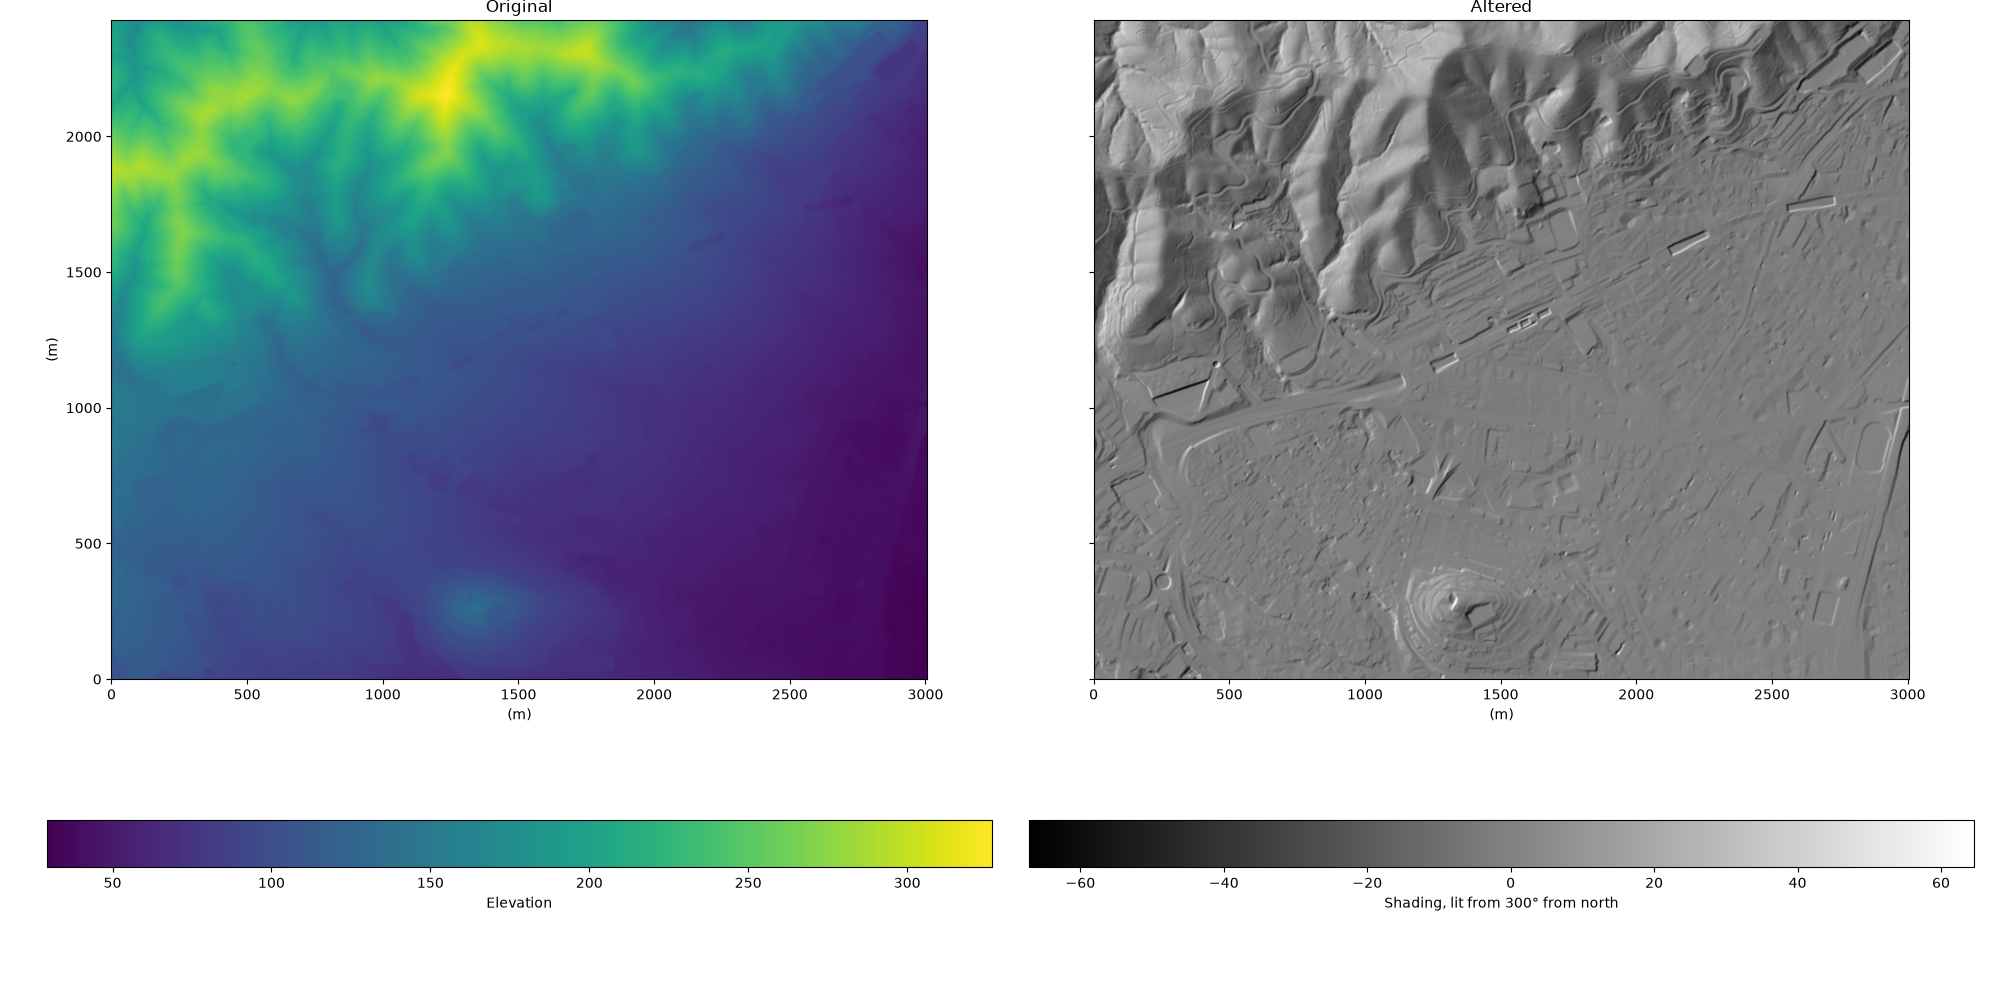
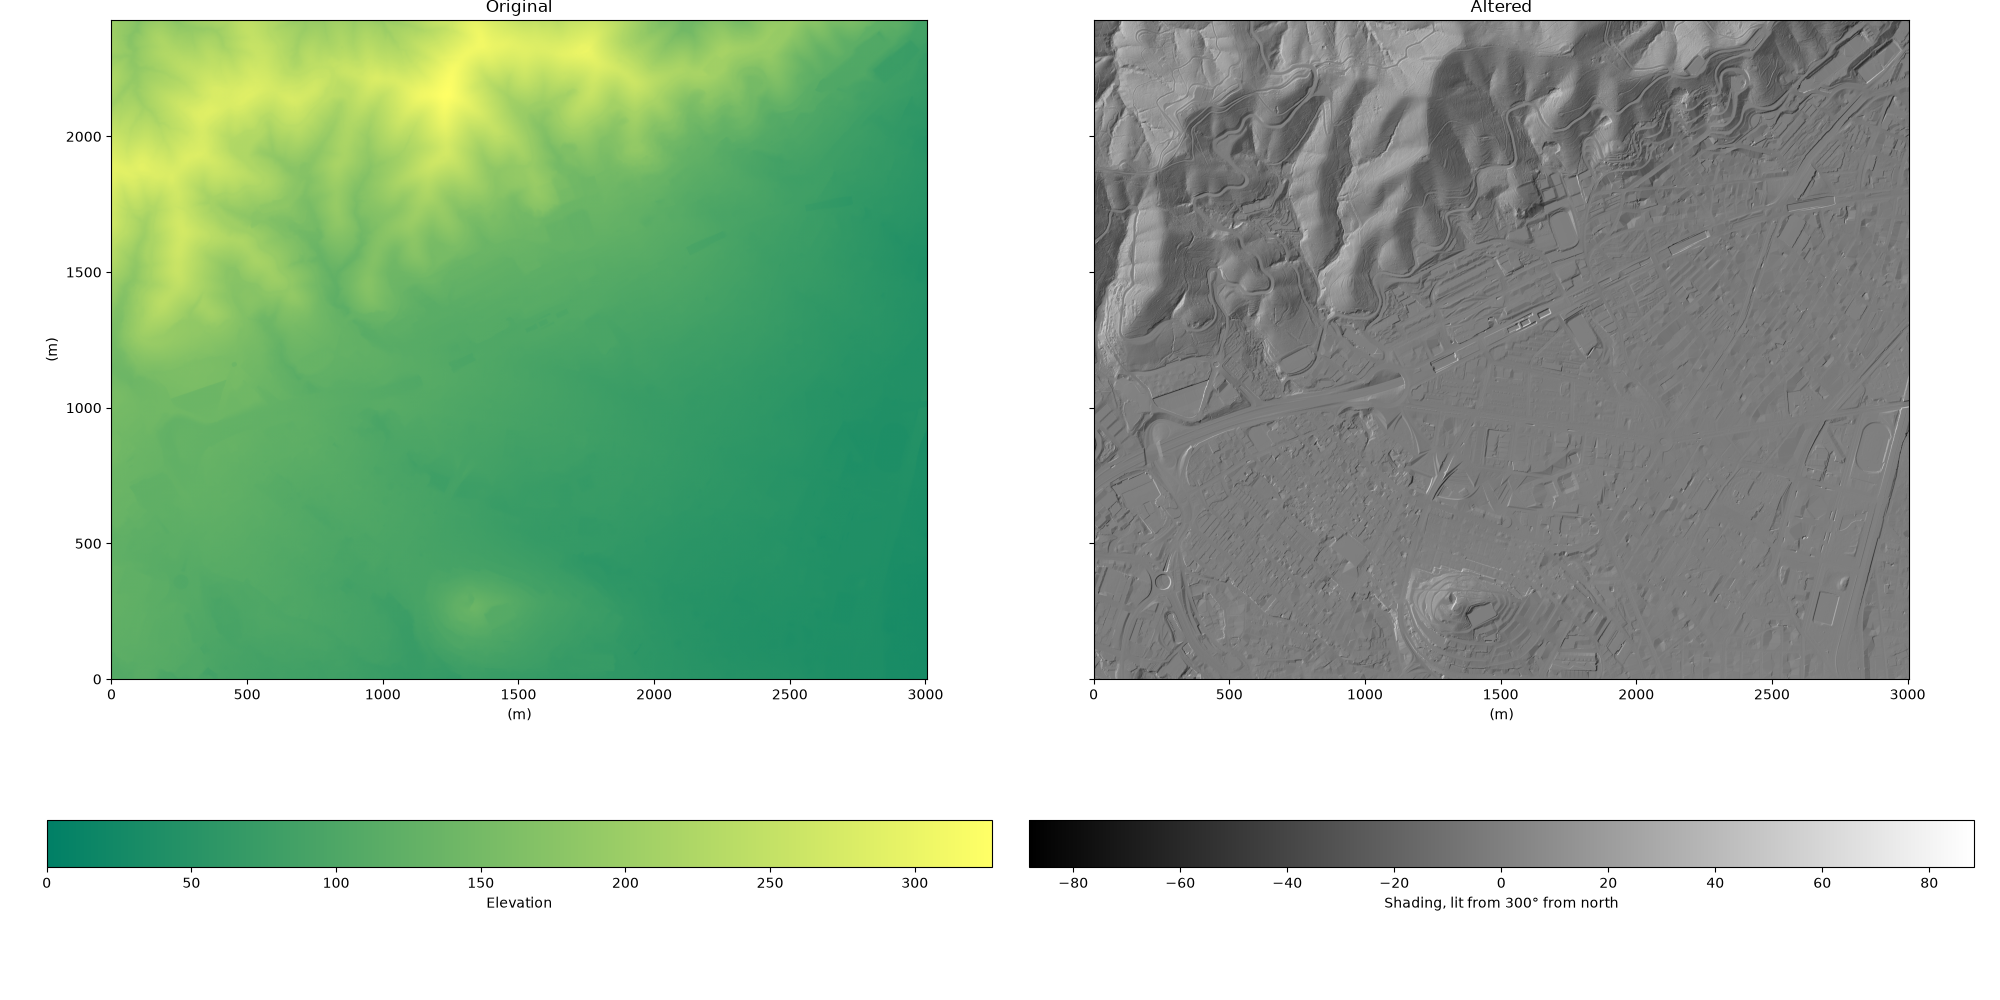
Draw the sea

diff --git a/elevation/draw.py b/elevation/draw.py
@@ -4,6 +4,7 @@ import numpy as np
 
 import os
 
+import matplotlib.colors
 import matplotlib.pyplot as plt
 from matplotlib.axes import Axes
 from matplotlib.figure import Figure
@@ -31,10 +32,26 @@ class TwoPlot:
         self.units = "km" if use_kilometers else "m"
         self.extent=(0.0, sd.width*scale, 0.0, sd.height*scale)
 
-    def plot_original(self):
+    def plot_original(self, **kwargs):
         ax = self.axes[0][0]
         ax.set_title("Original")
-        pos = ax.imshow(self.sd.original, extent=self.extent)
+
+        class ZeroIsUnder(matplotlib.colors.Normalize):
+            "Cheap trick to paint the sea blue"
+            def __call__(self, value, clip=None):
+                normalized = super().__call__(value, clip)
+                return np.ma.where(np.ma.asarray(value) == 0.0, -1.0, normalized)
+
+        cmap = plt.get_cmap(kwargs.get("cmap", "summer")).copy()
+        cmap.set_bad("lightgray")  # no data
+        cmap.set_under("blue")     # The sea
+        pos = ax.imshow(
+            self.sd.original,
+            extent=self.extent,
+            cmap=cmap,
+            norm=ZeroIsUnder(),
+            interpolation="nearest")
+
         ax.set_ylabel(f"({self.units})")
         ax.set_xlabel(f"({self.units})")
         cb = self.figs[0].colorbar(pos, ax=ax, orientation='horizontal')
@@ -54,3 +71,4 @@ class TwoPlot:
     def commit(self):
         for i, fig in enumerate(self.figs):
             fig.savefig(self.config.out_directory / f"image{i}.png")
+            plt.close(fig)
